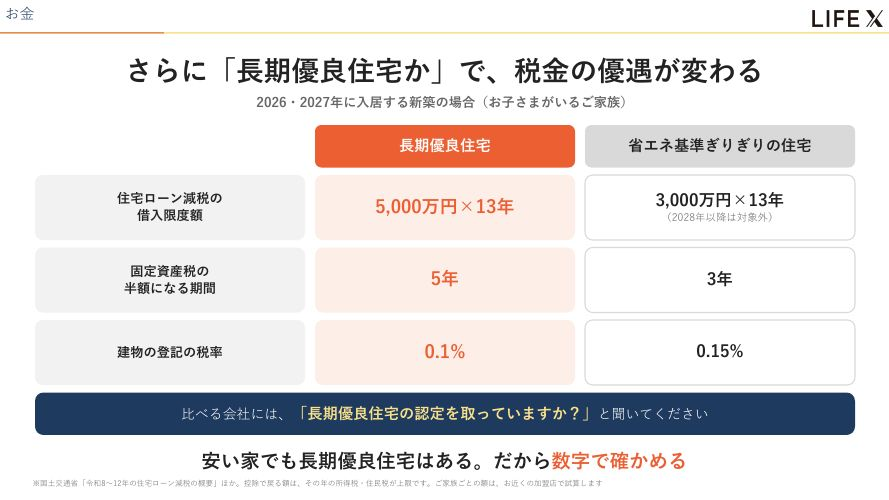
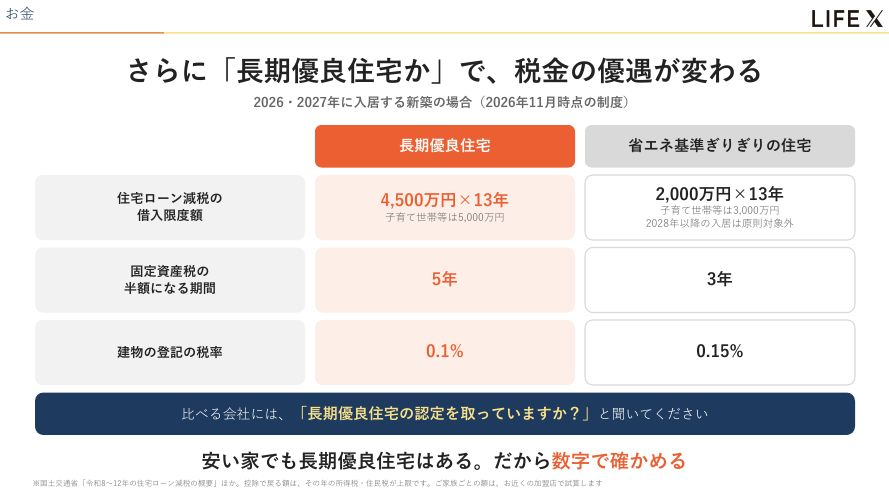
更新：住宅ローン減税の限度額を基本額と子育て世帯等で表示

diff --git a/webinar-kousei-20261120.html b/webinar-kousei-20261120.html
@@ -127,7 +127,7 @@ var NEW={
  N22:["ご相談までの流れ","今夜：予約枠をメール・SMSでお送り → 翌日：お電話でご都合を伺う → 近くの加盟店様でご相談。"],
  N23:["ローンが同じでも、住んでからのお金は同じではない","今の家賃と同じ月13万円のローンでも、安さで選んだ一般的な住宅は光熱費・防蟻・保険で毎月約2.2万円の上乗せ。数字は初回セミナー68・72・73枚目を月割り。"],
  N24:["35年で比べると、差は約1,040万円以上","性能の差だけで比べる：光熱費 約690万円・エアコン 約135万円（仮）・保険 約158万円・防蟻 約60〜75万円。金額に入れていない差として、壁体内結露で断熱性能が年々落ちることを添える。"],
- N25:["さらに「長期優良住宅か」で、税金の優遇が変わる","安い家でも長期優良住宅を取っている会社があるため、合計には入れず別に見せる。住宅ローン減税の借入限度額（子育て世帯 5,000万円 vs 3,000万円）・固定資産税の半額期間（5年 vs 3年）・登記の税率（0.1% vs 0.15%）。比べる会社に「長期優良住宅ですか？」と聞く物差しにする。"]
+ N25:["さらに「長期優良住宅か」で、税金の優遇が変わる","安い家でも長期優良住宅を取っている会社があるため、合計には入れず別に見せる。住宅ローン減税の借入限度額（長期優良 4,500万円・子育て世帯等5,000万円 vs 省エネ基準適合 2,000万円・子育て世帯等3,000万円、2026・2027年入居、2026年11月時点の制度）・固定資産税の半額期間（5年 vs 3年）・登記の税率（0.1% vs 0.15%）。比べる会社に「長期優良住宅ですか？」と聞く物差しにする。"]
 };
 var CH=[
  {no:"00",nm:"はじめに",mn:"3分",use:[1,2,3],nw:["N1","N2"]},
